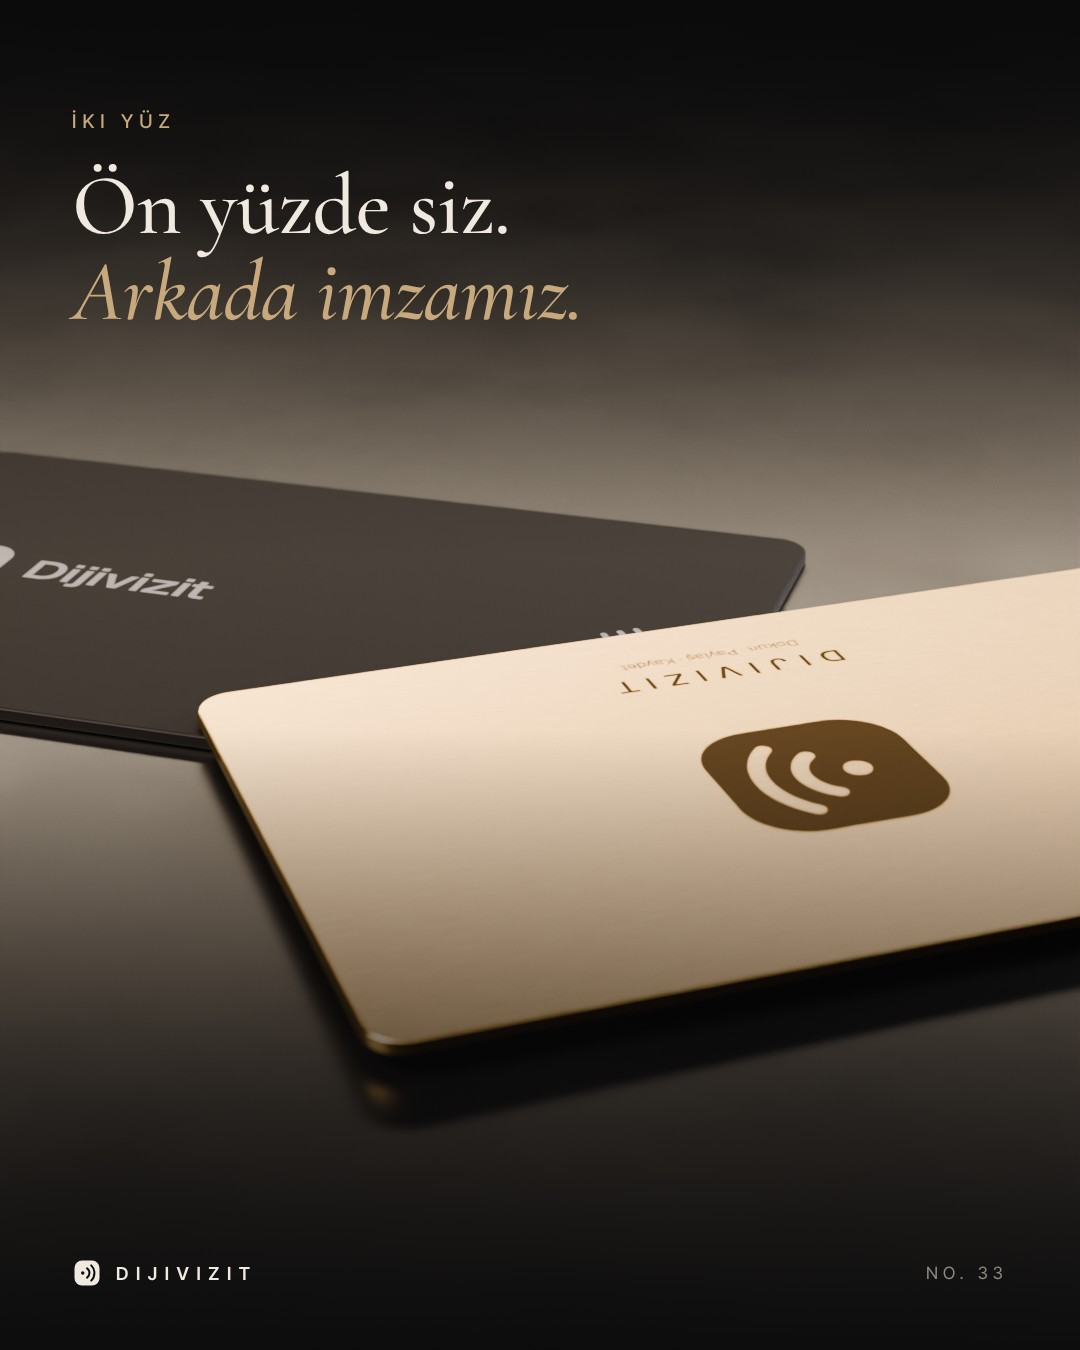
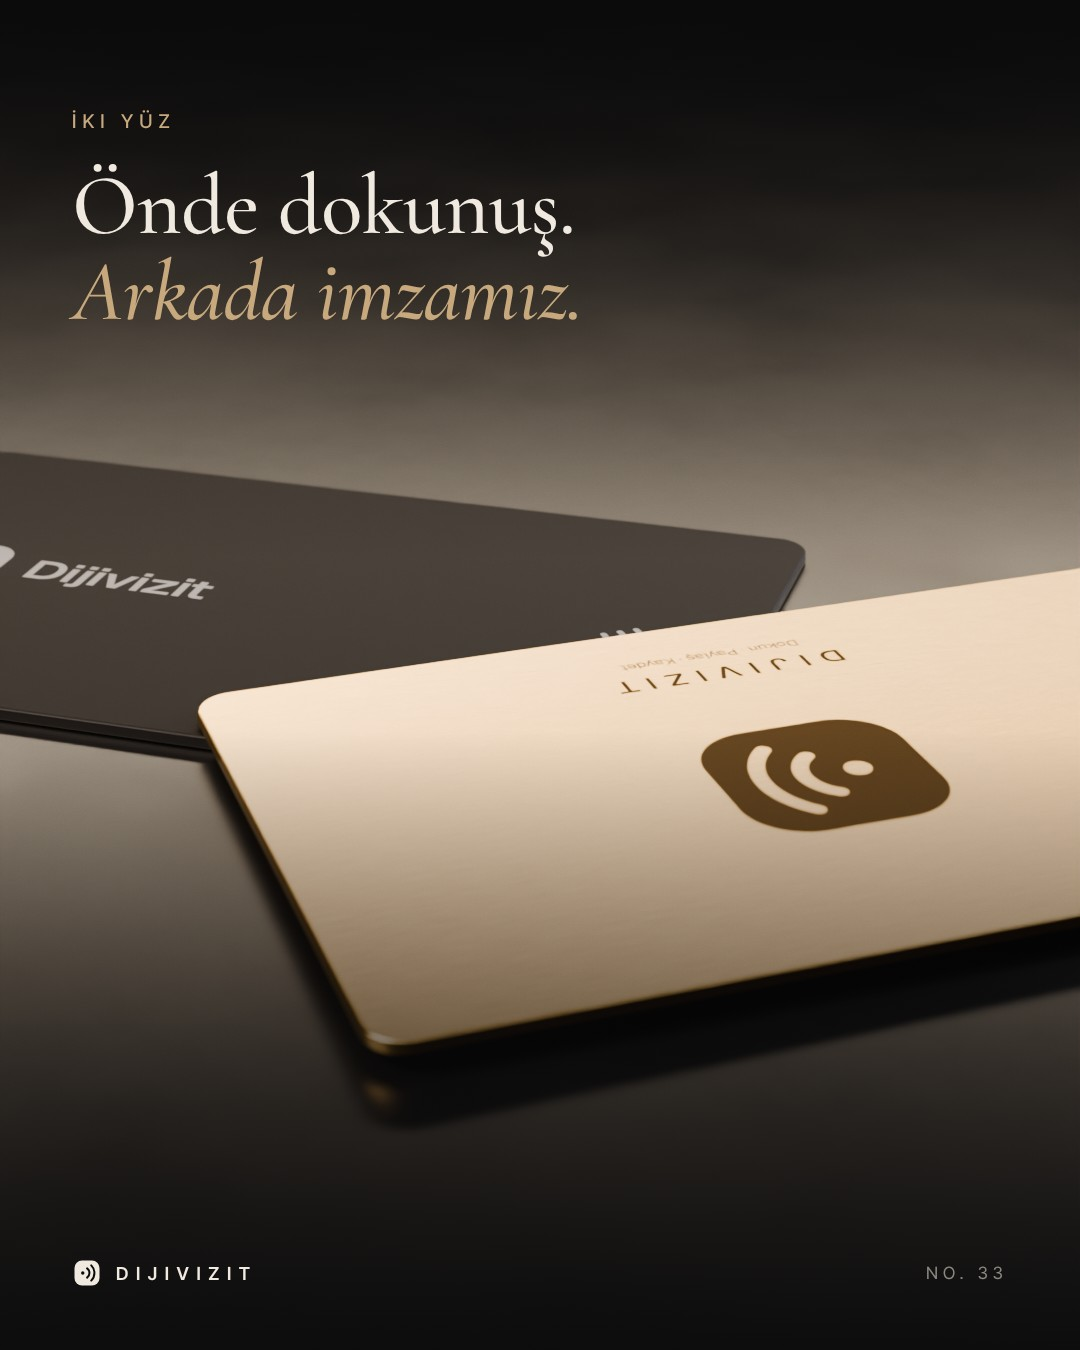
Instagram: light theme (renders and layouts), caption fixes for the shared card design
Claude-Session: https://claude.ai/code/session_01RbxPV14g2sV64gxynTKrXk

Changed region(s): [[0.1528, 0.1244, 0.5194, 0.1867]]

diff --git a/render/lux.py b/render/lux.py
@@ -15,6 +15,7 @@ sys.path.insert(0, os.path.dirname(os.path.abspath(__file__)))
 import scene as S  # noqa: E402
 
 FINISHES = ["black", "silver", "gold", "wood", "wood-light"]
+THEME = "dark"  # "light": high-key, warm white stone and soft daylight
 CARD_W, CARD_H, CARD_T = 0.856, 0.54, 0.012
 
 
@@ -25,6 +26,7 @@ def args():
     p.add_argument("--res", default="1080x1350")
     p.add_argument("--only", default="")
     p.add_argument("--list", action="store_true")
+    p.add_argument("--theme", default="dark", choices=["dark", "light"])
     a = sys.argv[sys.argv.index("--") + 1 :] if "--" in sys.argv else sys.argv[1:]
     return p.parse_args(a)
 
@@ -117,7 +119,7 @@ def make_phone(loc, rot, screen="profile"):
     smat, m1, m2 = S.screen_material()
     m1.inputs["Factor"].default_value = 1.0 if screen in ("profile", "saved") else 0.0
     m2.inputs["Factor"].default_value = 1.0 if screen == "saved" else 0.0
-    smat.node_tree.nodes["Principled BSDF"].inputs["Emission Strength"].default_value = 1.6
+    smat.node_tree.nodes["Principled BSDF"].inputs["Emission Strength"].default_value = 0.85 if THEME == "light" else 1.6
     sc.data.materials.append(smat)
     isl = S.flat("Island", 0.125, 0.036, 0.018, seg=8)
     isl.parent = ph
@@ -140,6 +142,20 @@ def stage(warm=0.0, floor=True, key=1.0, rim=1.0, strip=1.0, haze=0.0):
     w = bpy.data.worlds.new("W")
     sc.world = w
     w.use_nodes = True
+    if THEME == "light":
+        sc.view_settings.look = "AgX - Base Contrast"
+        w.node_tree.nodes["Background"].inputs["Color"].default_value = (0.93, 0.92, 0.9, 1)
+        w.node_tree.nodes["Background"].inputs["Strength"].default_value = 0.3
+        if floor:
+            f = S.flat("Floor", 60, 60, 0.01, seg=1)
+            f.data.materials.append(stone_material(tint=(0.78, 0.74, 0.67), rough=(0.4, 0.65)))
+        warmc = (1.0, 0.95 - 0.05 * warm, 0.88 - 0.1 * warm)
+        # Big soft window light from the left and a broad fill from above.
+        area("Window", (1.6, 1.2), (-2.6, -1.6, 2.4), (0, 0, 0), 700 * key, warmc)
+        area("Fill", (5.0, 5.0), (0.5, -0.5, 5.0), (0, 0, 0), 120, (1.0, 0.98, 0.95))
+        area("Rim", (0.4, 3.0), (2.6, 1.2, 0.8), (0, 0, 0.05), 120 * rim, (0.95, 0.97, 1.0))
+        emission_plane("Top", (3, 1.2), (0, -0.4, 4.2), (0, 0, 0), 0.6, warmc)
+        return sc
     w.node_tree.nodes["Background"].inputs["Color"].default_value = (0.0, 0.0, 0.0, 1)
     w.node_tree.nodes["Background"].inputs["Strength"].default_value = 0.0
     if floor:
@@ -356,7 +372,9 @@ SHOTS["lux-ui-macro"] = ui_macro("profile")
 
 
 def main():
+    global THEME
     a = args()
+    THEME = a.theme
     if a.list:
         print(" ".join(SHOTS))
         return
